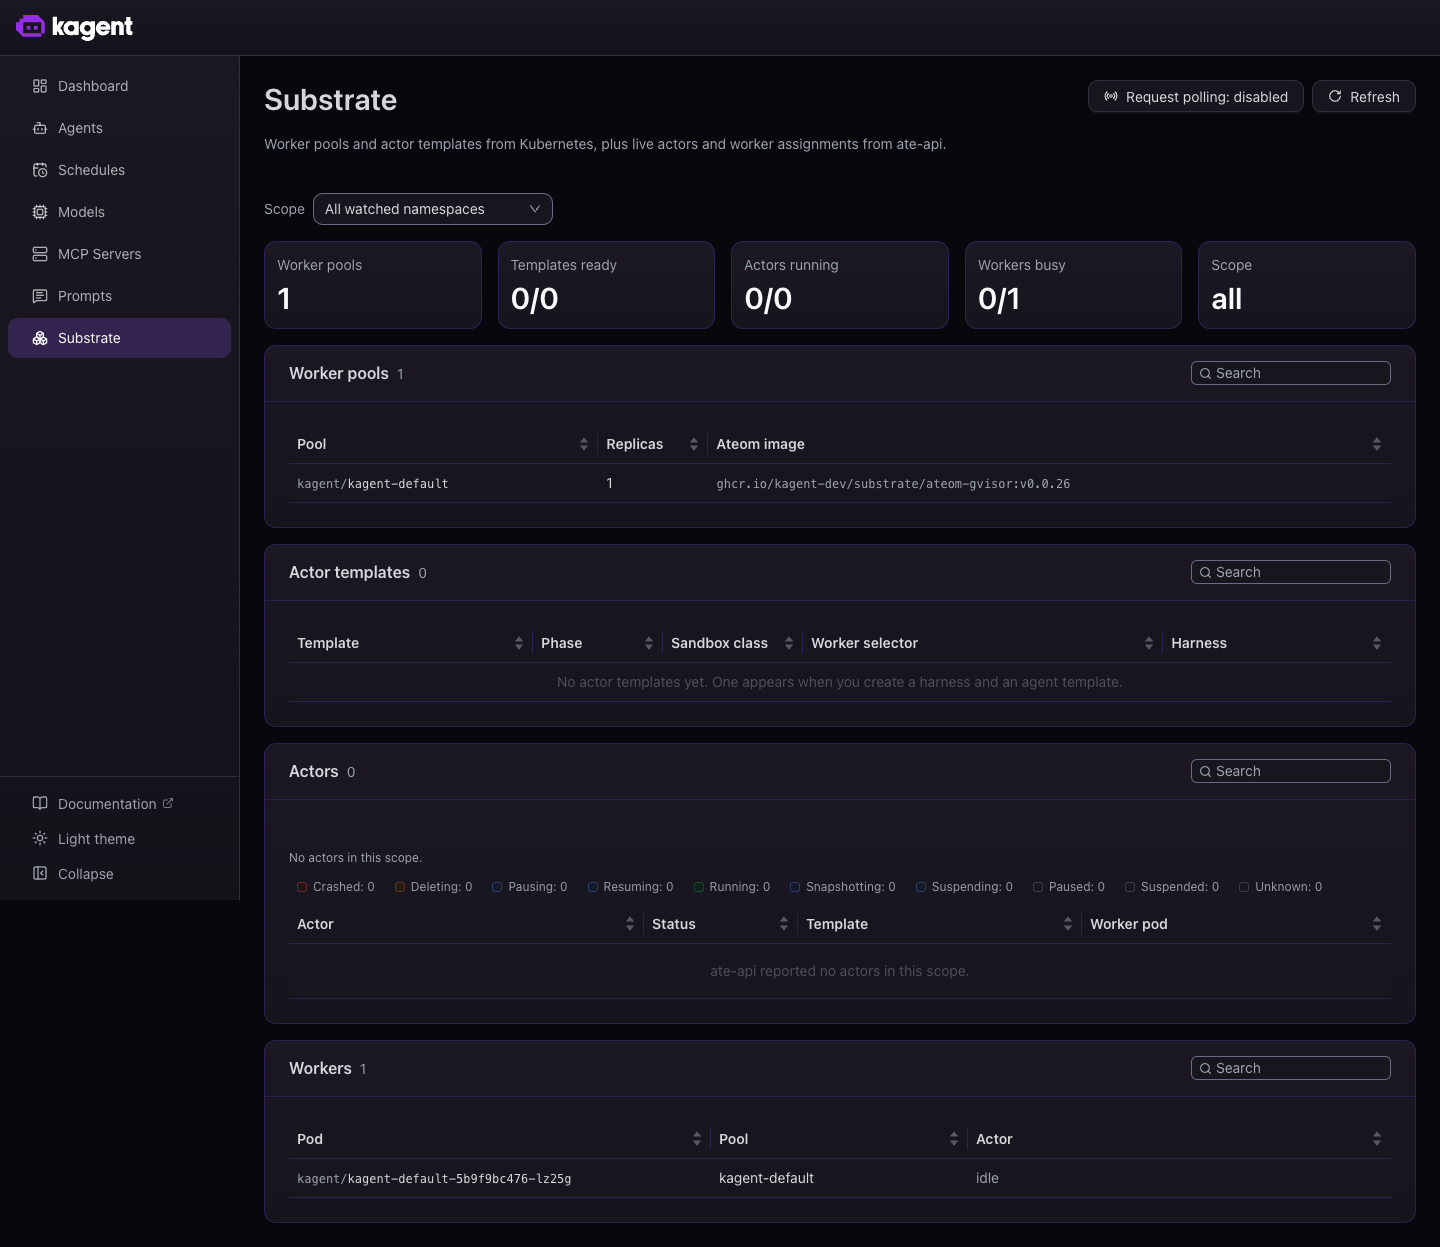
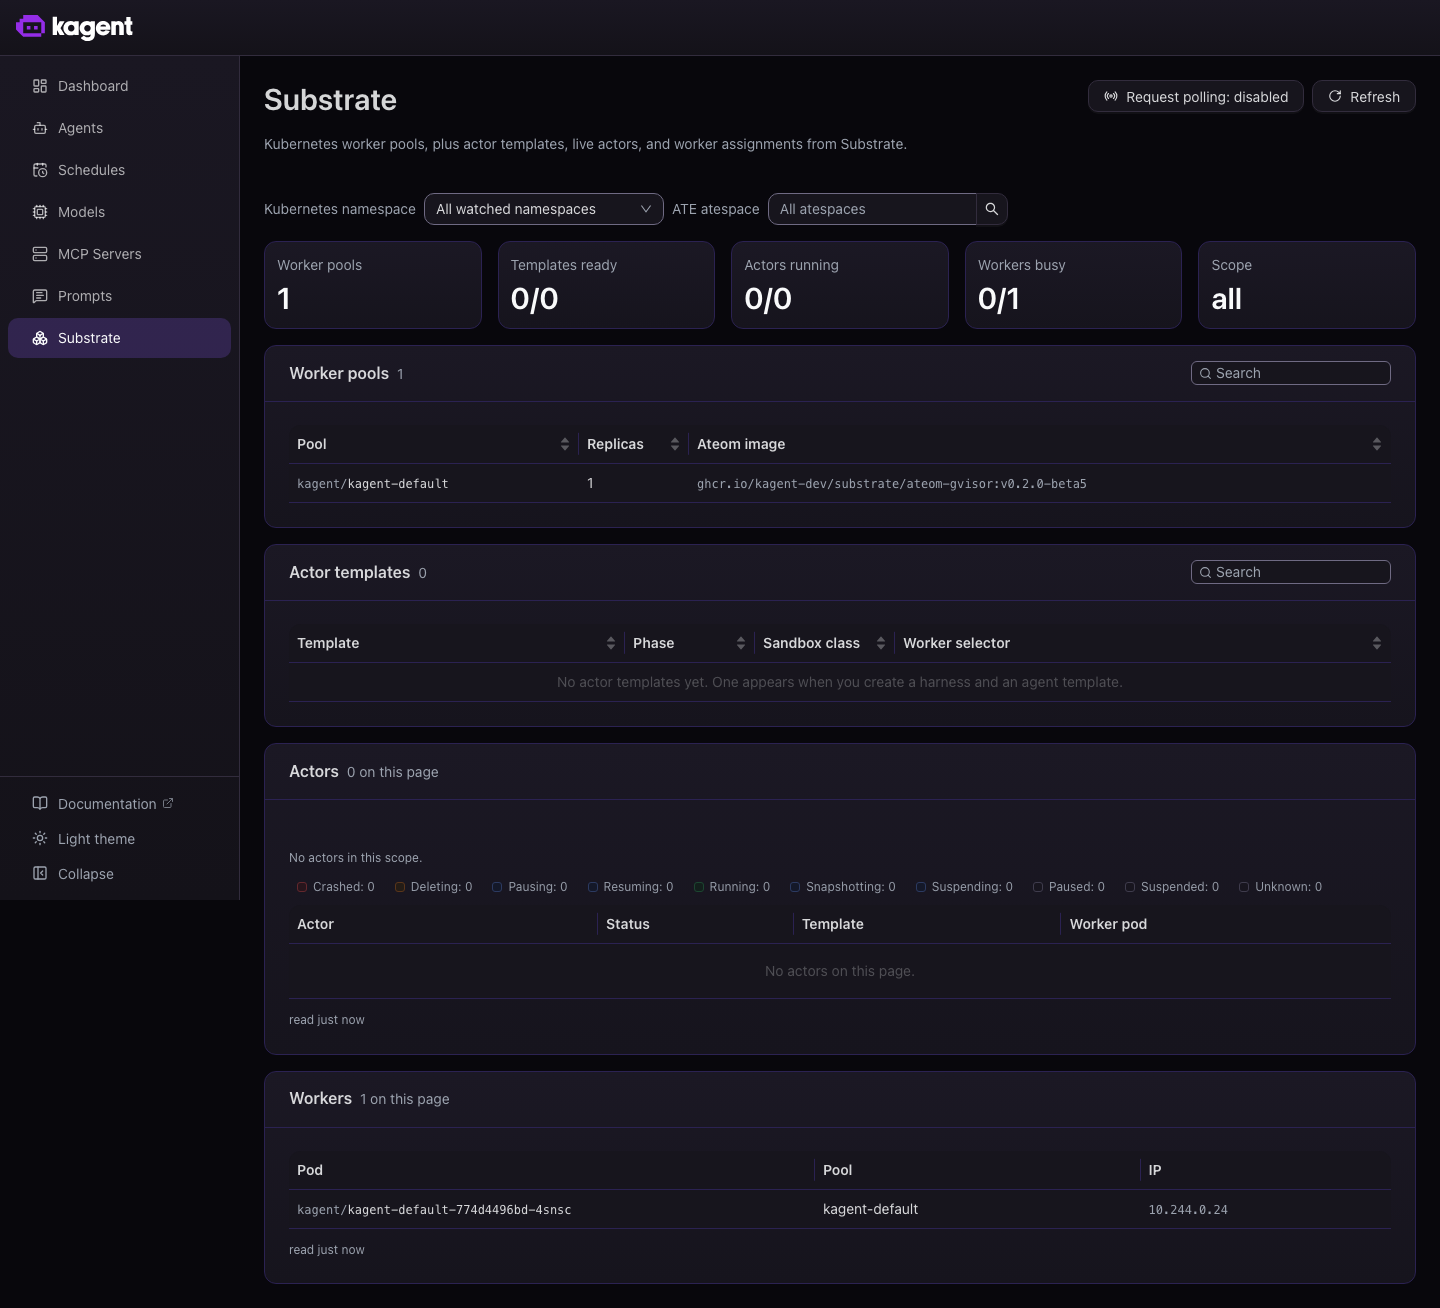
Fix screenshot CI and refresh Substrate baselines
Fix the Playwright screenshot workflow so both jobs can run on push with the required write permissions, pin kind to a tested version, and avoid a missing API key from failing cluster captures. Update the kagent-kind provisioner to create missing CA/JWT pools idempotently and add the required egress CA pool for Agent Substrate 0.2.x. Refresh the Substrate screenshots and documentation to match the published 1.0.0-alpha2 UI and clarify the capture process in the docs and workflow notes.

diff --git a/docs-site/playwright/README.md b/docs-site/playwright/README.md
@@ -229,19 +229,33 @@ Screenshots are pixel-compared, so captures must be stable across runs.
 
 | Capture | Source | Date |
 | --- | --- | --- |
-| `kagent-ui-chat` | kagent UI mock backend, `yarn dev` at kagent `42d3301d` | 2026-09-15 |
-| `kagent-ui-dashboard` / `-agents` / `-substrate` | **source build** at kagent `42d3301d`, chart `helm/kagent` from that checkout, on kind 1.37.0 | 2026-09-15 |
+| `kagent-ui-chat` | kagent UI mock backend, `vite` at kagent tag `v1.0.0-alpha2` (`373b56be`) | 2026-09-23 |
+| `kagent-ui-dashboard` / `-agents` | **published charts** kagent `1.0.0-alpha2` + Agent Substrate `0.2.0-beta5`, kind 1.37.0 | 2026-09-15, re-verified 2026-09-23 |
+| `kagent-ui-substrate` | **published charts** kagent `1.0.0-alpha2` + Agent Substrate `0.2.0-beta5`, kind 1.37.0 | 2026-09-23 |
 
-**The three cluster captures did not come from the published chart.** They predate it: when
-they were taken, the chart the 1.x docs pin had no published tag, so they came from a source
-build through a `KAGENT_CHART_DIR` mode this harness no longer carries. They show a real,
-fully working install (Agent Substrate `0.0.26` published charts, one ready gVisor worker,
-189 discovered tools, zero agents), so they are honest about what a fresh install looks like.
-They are not honest about *which build* a reader gets.
+**The cluster captures now come from the published chart**, which closes the caveat these
+notes carried since 2026-09-15. A fresh `kagent-shots` cluster installed exactly what
+`versions/kagent.md` and `versions/agent-substrate.md` pin, and the capture ran against that.
 
-**Re-capture all three from the published chart.** `versions/kagent.md` now pins a 1.x
-chart that publishes and pulls, so the cluster job can install exactly what a reader installs.
-The job has not yet had a green dispatch run, so these captures still stand.
+**`-dashboard` and `-agents` were re-verified, not rewritten.** They still match byte-for-byte
+against the published chart, so those two surfaces did not move between the 2026-09-15 source
+build and `1.0.0-alpha2`, and the old images were honest after all. Only `-substrate` changed
+(see below), so only that pair carries the new date.
+
+**What moved on the Substrate page at `1.0.0-alpha2`** — the page grew 1247px to 1308px, and
+these are the changes a reader sees:
+
+- the single **Scope** selector became two filters, **Kubernetes namespace** and **ATE atespace**;
+- the **Actor templates** table dropped its **Harness** column;
+- the **Workers** table replaced its **Actor** column (which read `idle`) with **IP**;
+- the Actors and Workers panels lost their per-panel search boxes, gained `N on this page`
+  counts and a `read just now` line, and the empty state changed from
+  `ate-api reported no actors in this scope` to `No actors on this page.`;
+- the page description dropped the internal name `ate-api` in favour of `Substrate`.
+
+Three of those falsified prose in `observability/launch-ui.md`, which was corrected in the
+same change. **`read just now` is a new volatile string** — it has held across re-captures so
+far, but it is the thing to suspect first if this capture ever starts flapping.
 
 The chat capture needs no such caveat going forward: it will always come from source,
 because the released image ships no mock service worker.
@@ -253,11 +267,15 @@ because the released image ships no mock service worker.
   theme-aware pair. Version is not a baseline axis because only 1.x uses these images (see
   "If a version line ever diverges"). Adding the version to a project name renames every
   committed baseline, so leave it until a second version is genuinely being captured.
-- **`@playwright/test` is pinned exactly (`1.49.0`, no caret).** CI triggers on input changes
-  rather than on a cron, and that reasoning only holds if nothing can change without a git
-  event. A caret would let `npm ci` pull a new minor with a different Chromium, shifting pixels
+- **`@playwright/test` is pinned exactly (no caret).** CI triggers on input changes rather
+  than on a cron, and that reasoning only holds if nothing can change without a git event. A
+  caret would let `npm ci` pull a new minor with a different Chromium, shifting pixels
   silently. The agentgateway harness gets away with `^1.49.0` only because it re-captures
-  nightly, which turns a browser bump into a reviewable PR.
+  nightly, which turns a browser bump into a reviewable PR. The pin works as designed:
+  Dependabot moved it 1.49.0 -> 1.63.0 on 2026-09-23 as a reviewable commit, and `package.json`
+  is on the workflow's path filter so the bump triggers a re-capture. That bump shifted no
+  pixels beyond tolerance — all eight baselines passed under the new Chromium before anything
+  was rewritten — so a browser bump is not automatically a re-baseline.
 - **`workers: 1`.** The specs drive a real cluster and captures can create resources, so
   concurrent runs would race each other.
 - **There is no `update:all`.** The two specs need different backends, so a single command that
@@ -267,9 +285,9 @@ because the released image ships no mock service worker.
 
 ## CI
 
-`.github/workflows/playwright-screenshots.yml` — `workflow_dispatch` plus a push to the docs
-branch touching any input that determines the screenshots (the version conrefs, the specs, the
-fixtures, the config, the provisioner).
+`.github/workflows/playwright-screenshots.yaml` — `workflow_dispatch` plus a push to `main`
+touching any input that determines the screenshots (the version conrefs, the specs, the
+fixtures, the config, the provisioner). **Both jobs run on a matching push** as of 2026-09-23.
 
 **Deliberately no cron.** The chart versions are pinned to exact docs releases and released
 charts are immutable, so a fixed version plus a fixed fixture renders identically every run.
@@ -277,7 +295,29 @@ Nothing changes until an input file changes, and that is a git event — so the 
 on the event rather than polling. A cron here would produce a nightly no-op, or a stream of
 empty PRs.
 
-Needs a model provider API key as an Actions secret, and a token that can open PRs.
+**One path filter serves both jobs, on purpose.** Over-triggering costs a ~15m no-op; under-
+triggering is invisible, and it already bit once — see below. Refreshed images land under
+`__screenshots__/` and `assets/img/`, neither of which is on the filter, so a merged refresh
+PR cannot re-trigger the workflow.
+
+Needs no secrets. A model provider key is read from `secrets.OPENAI_API_KEY` if one is set, but
+the job falls back to a placeholder, which is correct rather than a workaround: the chart's
+`check-api-key` only tests for non-emptiness and these captures invoke no model.
+
+### Two failures worth not re-introducing
+
+- **The cluster job was `workflow_dispatch`-only while `provisioners/**` and the version conrefs
+  sat on the `push` filter.** Only that job reads them, so a version bump started a run,
+  executed the *mock* job — which reads no versions at all — and finished green while the three
+  cluster screenshots stayed eight days stale. Nothing failed; the trigger fired a job that
+  could not act on it. **A path filter is only as good as the job it can reach.**
+- **Neither job declared `permissions:`,** so `create-pull-request` got a read-only
+  `GITHUB_TOKEN` and every run died at the branch push with `Permission to
+  kagent-dev/website.git denied to github-actions[bot]`. The capture itself succeeded every
+  time and the result was discarded, which is why it read as a screenshot problem. Both jobs now
+  declare `contents: write` + `pull-requests: write`, the same pair `update-ref-docs.yaml` has
+  always used — that workflow opens PRs from this bot routinely, so the org-level "allow Actions
+  to create pull requests" setting was never the cause.
 
 ## Files
 

diff --git a/docs-site/content/kagent/1.x/observability/launch-ui.md b/docs-site/content/kagent/1.x/observability/launch-ui.md
@@ -107,8 +107,8 @@ Two controls under the transcript branch the conversation rather than continue i
 
 The **Substrate** page shows whether there is capacity for an agent to run. It reads WorkerPools and ActorTemplates from Kubernetes, and live Actors and Worker assignments from the Agent Substrate API.
 
-{{< reuse-image-light src="img/kagent-ui-substrate.png" alt="The Substrate page, showing one worker pool and an idle worker" caption="Figure: The Substrate page" >}}
-{{< reuse-image-dark srcDark="img/kagent-ui-substrate-dark.png" alt="The Substrate page, showing one worker pool and an idle worker" caption="Figure: The Substrate page" >}}
+{{< reuse-image-light src="img/kagent-ui-substrate.png" alt="The Substrate page, showing one worker pool and no running actors" caption="Figure: The Substrate page" >}}
+{{< reuse-image-dark srcDark="img/kagent-ui-substrate-dark.png" alt="The Substrate page, showing one worker pool and no running actors" caption="Figure: The Substrate page" >}}
 
 Read the page from the top tiles down.
 
@@ -119,10 +119,10 @@ Read the page from the top tiles down.
 | **Actors running** | Live Actors, each one an AgentInstance holding a conversation. |
 | **Workers busy** | {{< gloss "Worker" >}}Workers{{< /gloss >}} currently assigned to an Actor, against the total provisioned. |
 
-A fresh installation reports one worker pool, no actor templates, and no actors, because nothing has created an agent yet. The Workers table still lists the pool's worker as `idle`. That idle worker confirms that capacity is provisioned and waiting for the first agent.
+A fresh installation reports one worker pool, no actor templates, and no actors, because nothing has created an agent yet. The **Workers busy** tile reads `0/1`, and the Workers table lists the pool's single worker with the pod that backs it. That unassigned worker confirms that capacity is provisioned and waiting for the first agent.
 
 > [!NOTE]
-> An empty Actors table on a cluster that does have agents indicates an issue at the level of the Agent Substrate API rather than at kagent. The page reports `ate-api reported no actors in this scope` when it reaches the API and gets an empty answer, so check the scope selector before investigating further.
+> An empty Actors table on a cluster that does have agents indicates an issue at the level of the Agent Substrate API rather than at kagent. The page reports `No actors in this scope.` when it reaches the API and gets an empty answer, so check the **Kubernetes namespace** and **ATE atespace** filters before investigating further.
 
 ## Expose the UI outside the cluster
 
